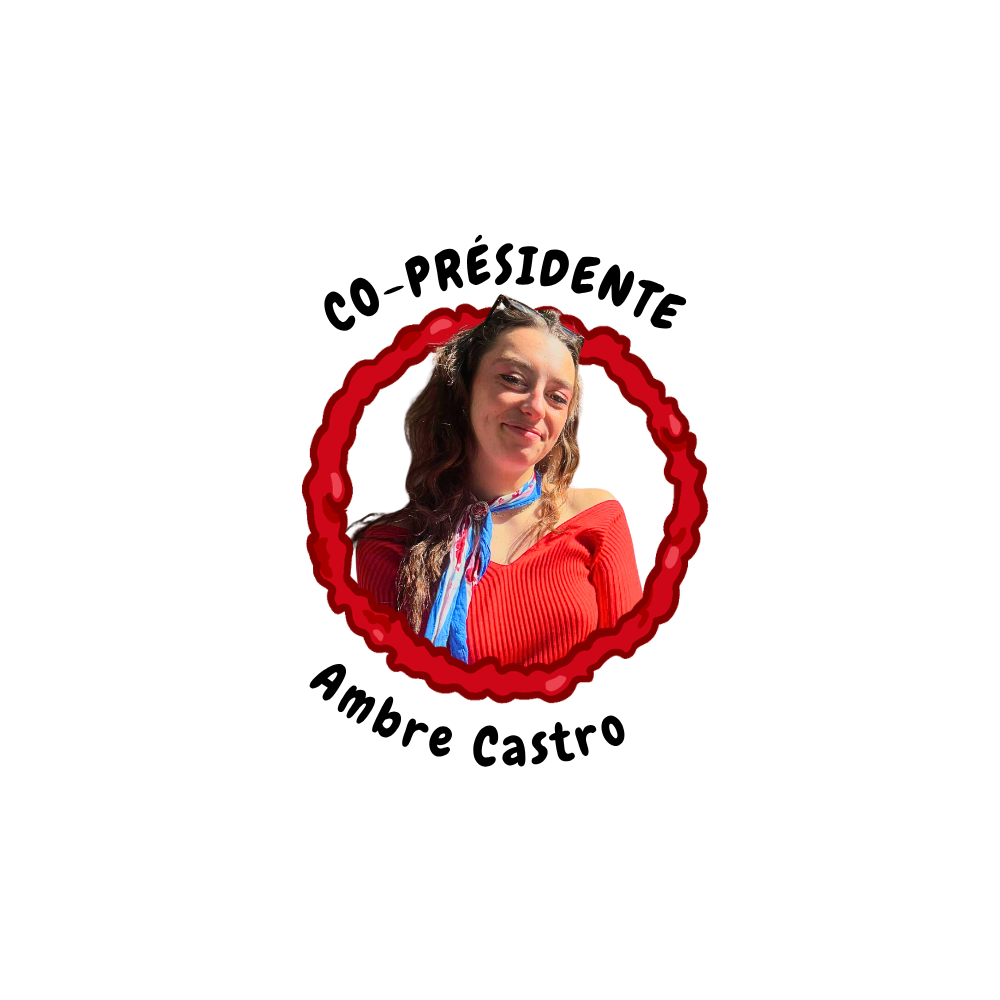
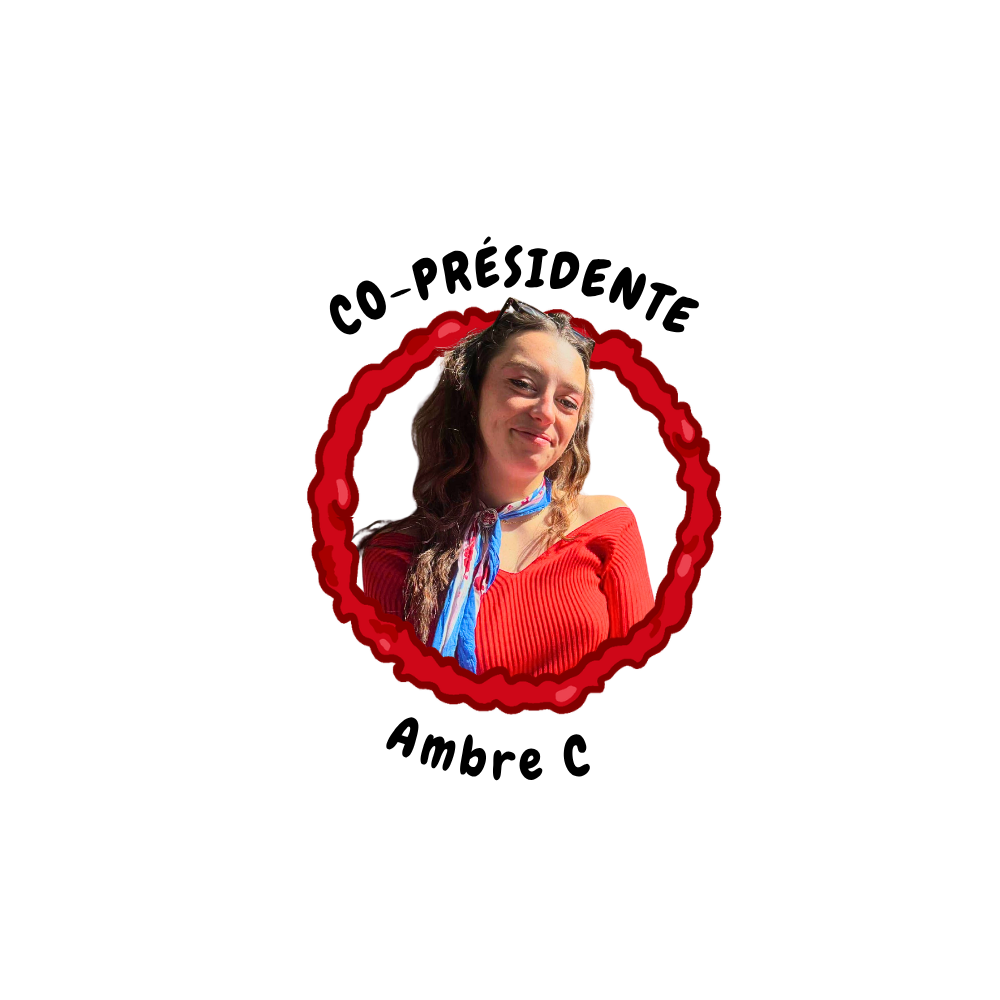
fini la presentation

Changed region(s): [[0.279, 0.217, 0.744, 0.775]]

diff --git a/src/app/pages/presentation/presentation.html b/src/app/pages/presentation/presentation.html
@@ -1,4 +1,13 @@
 <section class="team">
+<h2 class="team-title">Qui sommes-nous ?</h2>
+
+<p class="role-description">Nous sommes une asso critarde pour le territoire auvergnat, l’AAORTEi –  Association Auvergnate Organisatrice des Rencontres du Territoire pour Étudiant•e•s Infirmier•e•s.</p>
+<br>
+<p class="role-description">Notre but ? Rassembler les étudiants en soins infirmiers autour du Crit, un événement incontournable mêlant sport, glouglou, musique et fun.</p>
+<p class="role-description">Notre mission ? Organiser, fédérer et faire vibrer notre région à travers des événements, des projets et une ambiance unique.</p>
+<br>
+<br>
+
   <h2 class="team-title">Bureau restreint</h2>
 
   <!-- Ligne 1 : Membre 1 + 2 -->
@@ -106,6 +115,8 @@
         <img src="presentation/membre6.png" alt="Membre 6">
         <div class="team-overlay">
           <p class="role-title">Responsable logistique</p>
+          <p>Ce membre aimerait rester anonyme pour le moment.</p>
+          <br>
           <p class="role-description">La responsable logistique coordonne le matériel, les événements et les déplacements, afin que toutes les activités se déroulent sans encombre.</p>
         </div>
       </div>
@@ -129,7 +140,7 @@
         <img src="presentation/membre8.png" alt="Membre 8">
         <div class="team-overlay">
           <p class="role-title">Responsable de la communication</p>
-          <p class="role-description">La responsable de la communication gère la visibilité, crée et diffuse le contenu sur les réseaux sociaux, et veille à la bonne image de l'association.</p>
+          <p class="role-description">La responsable de la communication gère la visibilité, crée et diffuse du contenu sur les réseaux sociaux, et veille à la bonne image de l'association.</p>
            <a href="https://instagram.com/cloebeguin" target="_blank" class="insta-link">
             <svg xmlns="http://www.w3.org/2000/svg" width="20" height="20" viewBox="0 0 24 24" fill="none" stroke="currentColor" stroke-width="2">
               <rect x="2" y="2" width="20" height="20" rx="5"/>
@@ -164,8 +175,16 @@
       <div class="team-image">
         <img src="presentation/membre10.png" alt="Membre 10">
         <div class="team-overlay">
-          <p>Rôle 10</p>
-          <p>Décrire ici le rôle</p>
+          <p class="role-title">Responsable prévention</p>
+          <p class="role-description">La responsable prévention veille au bien-être et à la sécurité de tous pendant les événement. Elle met en place des actions de sensibilisation, informe sur les comportements à risque et reste disponible pour écouter, orienter et intervenir en cas de besoin. Son objectif est de garantir un cadre festif mais responsable.</p>
+          <a href="https://instagram.com/marie.richetin" target="_blank" class="insta-link">
+            <svg xmlns="http://www.w3.org/2000/svg" width="20" height="20" viewBox="0 0 24 24" fill="none" stroke="currentColor" stroke-width="2">
+              <rect x="2" y="2" width="20" height="20" rx="5"/>
+              <circle cx="12" cy="12" r="4"/>
+              <circle cx="17.5" cy="6.5" r="1" fill="currentColor" stroke="none"/>
+            </svg>
+          </a>
+        
         </div>
       </div>
     </div>
@@ -177,8 +196,16 @@
       <div class="team-image">
         <img src="presentation/membre11.png" alt="Membre 11">
         <div class="team-overlay">
-          <p>Rôle 11</p>
-          <p>Décrire ici le rôle</p>
+          <p class="role-title">Responsable partenariats</p>
+          <p class="role-description">La responsable partenariats développe et entretient les relations avec les partenaires de l’association. Elle recherche des soutiens financiers, matériels ou logistiques, et valorise ces collaborations.</p>
+          <a href="https://instagram.com/mo_pgny" target="_blank" class="insta-link">
+            <svg xmlns="http://www.w3.org/2000/svg" width="20" height="20" viewBox="0 0 24 24" fill="none" stroke="currentColor" stroke-width="2">
+              <rect x="2" y="2" width="20" height="20" rx="5"/>
+              <circle cx="12" cy="12" r="4"/>
+              <circle cx="17.5" cy="6.5" r="1" fill="currentColor" stroke="none"/>
+            </svg>
+          </a>
+        
         </div>
       </div>
     </div>
@@ -190,8 +217,15 @@
       <div class="team-image">
         <img src="presentation/membre12.png" alt="Membre 12">
         <div class="team-overlay">
-          <p>Rôle 12</p>
-          <p>Décrire ici le rôle</p>
+          <p class="role-title">Responsable son</p>
+          <p class="role-description">Le responsable son s’occupe de toute la gestion technique liée à l’audio. De l’installation du matériel à la gestion du mix pendant les événements.</p>
+         <a href="https://instagram.com/louis.lbys" target="_blank" class="insta-link">
+            <svg xmlns="http://www.w3.org/2000/svg" width="20" height="20" viewBox="0 0 24 24" fill="none" stroke="currentColor" stroke-width="2">
+              <rect x="2" y="2" width="20" height="20" rx="5"/>
+              <circle cx="12" cy="12" r="4"/>
+              <circle cx="17.5" cy="6.5" r="1" fill="currentColor" stroke="none"/>
+            </svg>
+          </a>
         </div>
       </div>
     </div>
@@ -203,8 +237,15 @@
       <div class="team-image">
         <img src="presentation/membre13.png" alt="Membre 13">
         <div class="team-overlay">
-          <p>Rôle 13</p>
-          <p>Décrire ici le rôle</p>
+          <p class="role-title">Responsable animation</p>
+          <p class="role-description">La responsable animation est responsable de l’ambiance des événement. Elle imagine des activités, anime les temps forts et veille à maintenir une atmosphère conviviale et engageante.</p>
+          <a href="https://instagram.com/candyce_alves" target="_blank" class="insta-link">
+            <svg xmlns="http://www.w3.org/2000/svg" width="20" height="20" viewBox="0 0 24 24" fill="none" stroke="currentColor" stroke-width="2">
+              <rect x="2" y="2" width="20" height="20" rx="5"/>
+              <circle cx="12" cy="12" r="4"/>
+              <circle cx="17.5" cy="6.5" r="1" fill="currentColor" stroke="none"/>
+            </svg>
+          </a>
         </div>
       </div>
     </div>
@@ -212,8 +253,15 @@
       <div class="team-image">
         <img src="presentation/membre14.png" alt="Membre 14">
         <div class="team-overlay">
-          <p>Rôle 14</p>
-          <p>Décrire ici le rôle</p>
+          <p class="role-title">Responsable animation</p>
+          <p class="role-description">La responsable animation est responsable de l’ambiance des événement. Elle imagine des activités, anime les temps forts et veille à maintenir une atmosphère conviviale et engageante.</p>
+          <a href="https://instagram.com/juliette__burte" target="_blank" class="insta-link">
+            <svg xmlns="http://www.w3.org/2000/svg" width="20" height="20" viewBox="0 0 24 24" fill="none" stroke="currentColor" stroke-width="2">
+              <rect x="2" y="2" width="20" height="20" rx="5"/>
+              <circle cx="12" cy="12" r="4"/>
+              <circle cx="17.5" cy="6.5" r="1" fill="currentColor" stroke="none"/>
+            </svg>
+          </a>
         </div>
       </div>
     </div>
@@ -225,8 +273,15 @@
       <div class="team-image">
         <img src="presentation/membre15.png" alt="Membre 15">
         <div class="team-overlay">
-          <p>Rôle 15</p>
-          <p>Décrire ici le rôle</p>
+          <p class="role-title">Responsable bouffe</p>
+          <p class="role-description">La responsable bouffe gère la préparation et la distribution de la nourriture pendant nos évènements. Elle veille à proposer des options variées, adaptées aux besoins de chacun, tout en respectant les normes d’hygiène.</p>
+          <a href="https://instagram.com/lola_very" target="_blank" class="insta-link">
+            <svg xmlns="http://www.w3.org/2000/svg" width="20" height="20" viewBox="0 0 24 24" fill="none" stroke="currentColor" stroke-width="2">
+              <rect x="2" y="2" width="20" height="20" rx="5"/>
+              <circle cx="12" cy="12" r="4"/>
+              <circle cx="17.5" cy="6.5" r="1" fill="currentColor" stroke="none"/>
+            </svg>
+          </a>
         </div>
       </div>
     </div>
@@ -234,8 +289,15 @@
       <div class="team-image">
         <img src="presentation/membre16.png" alt="Membre 16">
         <div class="team-overlay">
-          <p>Rôle 16</p>
-          <p>Décrire ici le rôle</p>
+          <p class="role-title">Responsable glouglou</p>
+          <p class="role-description">Le responsable glouglou s’occupe de la gestion des boissons. Il organise l’approvisionnement, la tenue du bar et le service, tout en restant attentif à une consommation responsable.</p>
+          <a href="https://instagram.com/achille_dlrs" target="_blank" class="insta-link">
+            <svg xmlns="http://www.w3.org/2000/svg" width="20" height="20" viewBox="0 0 24 24" fill="none" stroke="currentColor" stroke-width="2">
+              <rect x="2" y="2" width="20" height="20" rx="5"/>
+              <circle cx="12" cy="12" r="4"/>
+              <circle cx="17.5" cy="6.5" r="1" fill="currentColor" stroke="none"/>
+            </svg>
+          </a>
         </div>
       </div>
     </div>
@@ -247,8 +309,11 @@
       <div class="team-image">
         <img src="presentation/membre17.png" alt="Membre 17">
         <div class="team-overlay">
-          <p>Rôle 17</p>
-          <p>Décrire ici le rôle</p>
+          <p class="role-title">Petite main</p>
+          <p>Ce membre aimerait rester anonyme pour le moment.</p>
+          <br>
+          <p class="role-description">La petite main apporte un soutien polyvalent à l’ensemble des équipes. Disponible et réactif, il intervient là où il y a besoin.</p>
+          
         </div>
       </div>
     </div>

diff --git a/src/app/pages/presentation/presentation.scss b/src/app/pages/presentation/presentation.scss
@@ -69,7 +69,7 @@
   font-weight: bold;
 }
 
-.team-overlay .role-desc {
+.team-overlay .role-description {
   font-family: 'calibri', sans-serif;
   font-size: 1rem;
   line-height: 1.4;
